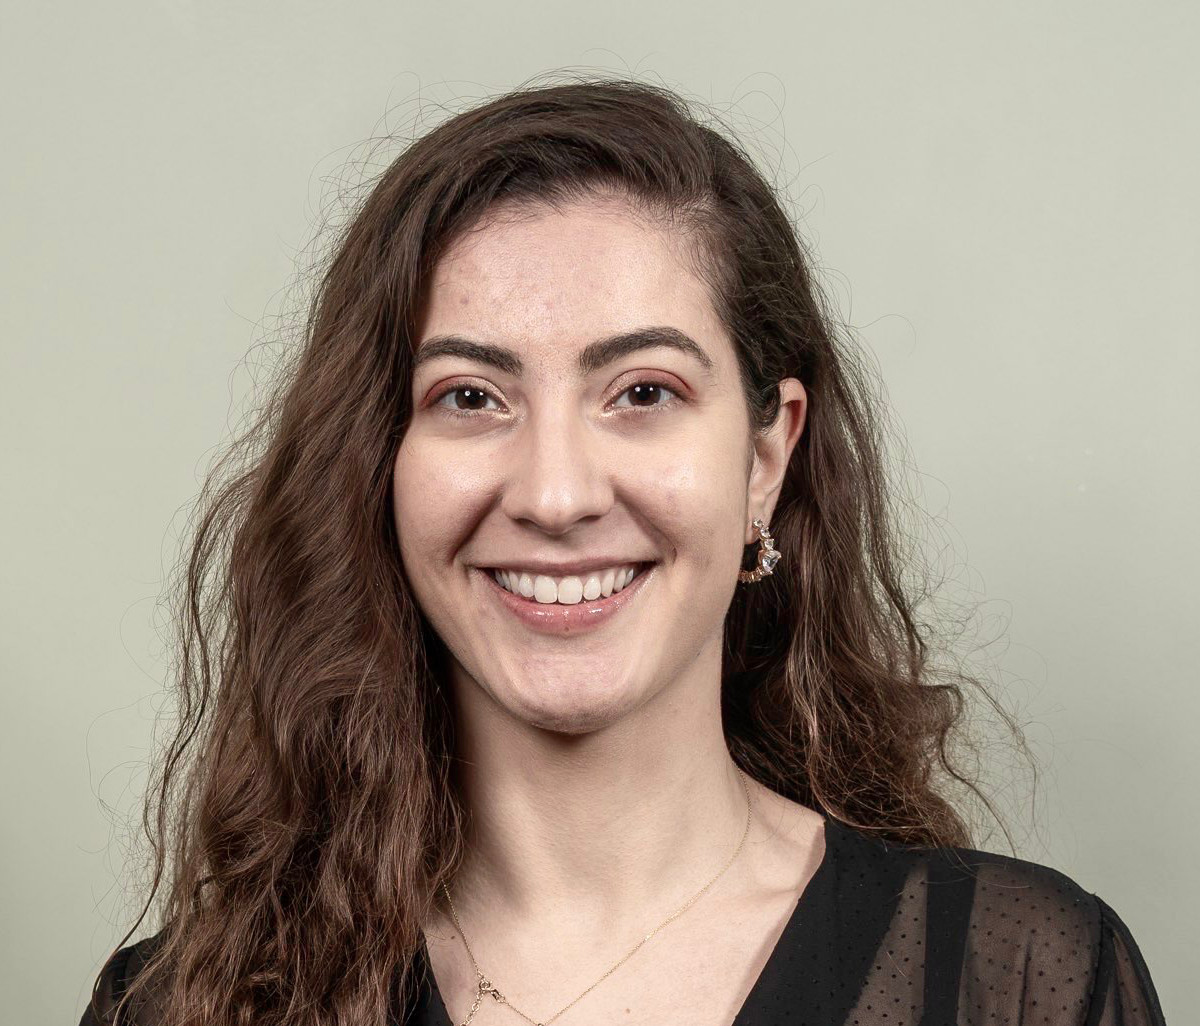
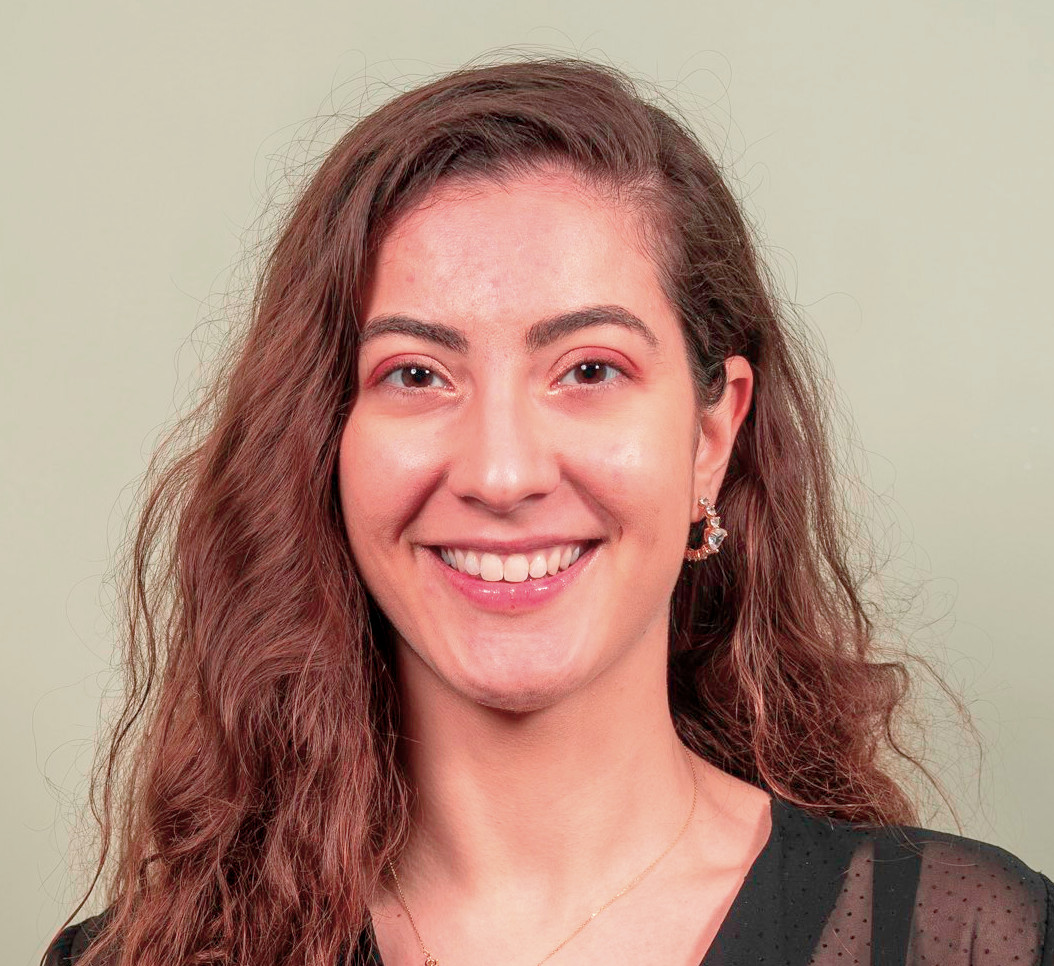
update yagmur photo and resize team photos

diff --git a/src/team.html b/src/team.html
@@ -11,7 +11,7 @@ width: inner
     </div>
     <img
       class="item-image"
-      style="height:10em;width:auto;"
+      style="height:12em;width:auto;"
       src="/images/{{member.data.image}}"
       alt="{{member.data.name}}"
     >
